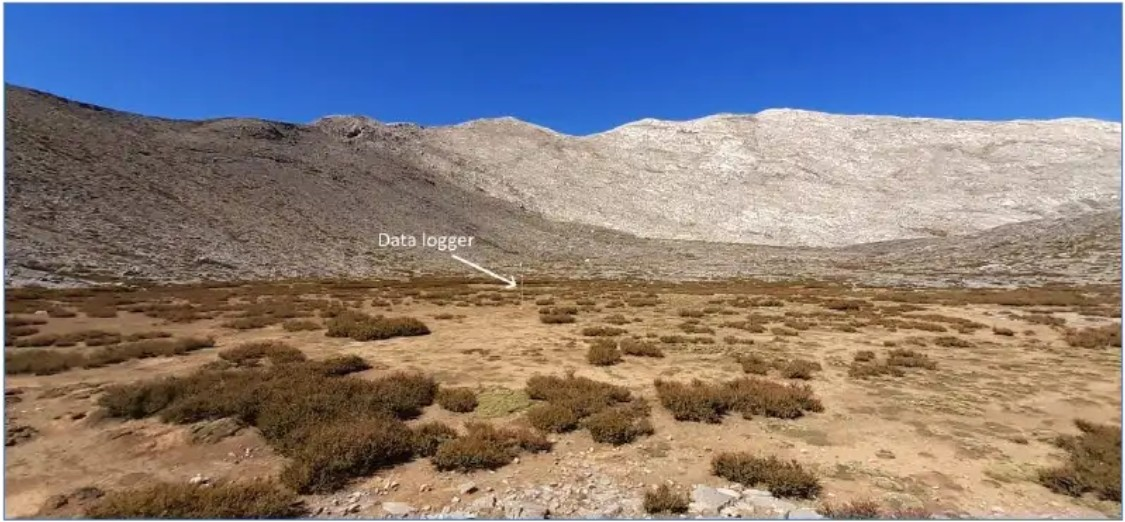
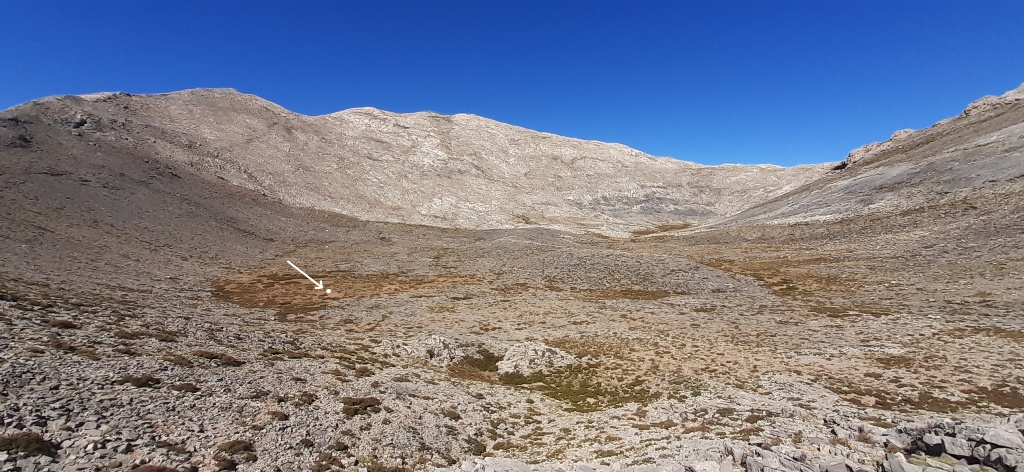
Add files via upload

diff --git a/index.html b/index.html
@@ -157,6 +157,18 @@
   .suggestions-list div:hover { background: var(--frost); }
 
   /* Outil de mesure */
+  /* Échelle dynamique, façon cartes.gouv.fr : lisible sur tout fond */
+  .leaflet-control-scale-line {
+    background: rgba(255,255,255,0.88);
+    border: 1.5px solid var(--ink);
+    border-top: none;
+    padding: 1px 6px 2px;
+    font-family: -apple-system, BlinkMacSystemFont, "Segoe UI", sans-serif;
+    font-size: 0.72rem;
+    color: var(--ink);
+    border-radius: 0 0 3px 3px;
+  }
+
   .mesure-info {
     background: #fff;
     padding: 6px 10px;
@@ -353,8 +365,16 @@ const googleSatellite = L.tileLayer(
 const controlCouches = L.control.layers(
   { "Relief (OpenTopoMap)": topo, "Plan (OSM)": osm, "Satellite (France)": ignSatellite, "Satellite (Monde)": googleSatellite },
   {},
-  { collapsed: false }
+  { collapsed: true }
 ).addTo(map);
+
+// Échelle dynamique, façon cartes.gouv.fr
+L.control.scale({
+  position: 'bottomleft',
+  metric: true,
+  imperial: false,
+  maxWidth: 140
+}).addTo(map);
 
 // Attribution fixe, indépendante du fond de plan actif
 map.attributionControl.setPrefix('Leaflet');
